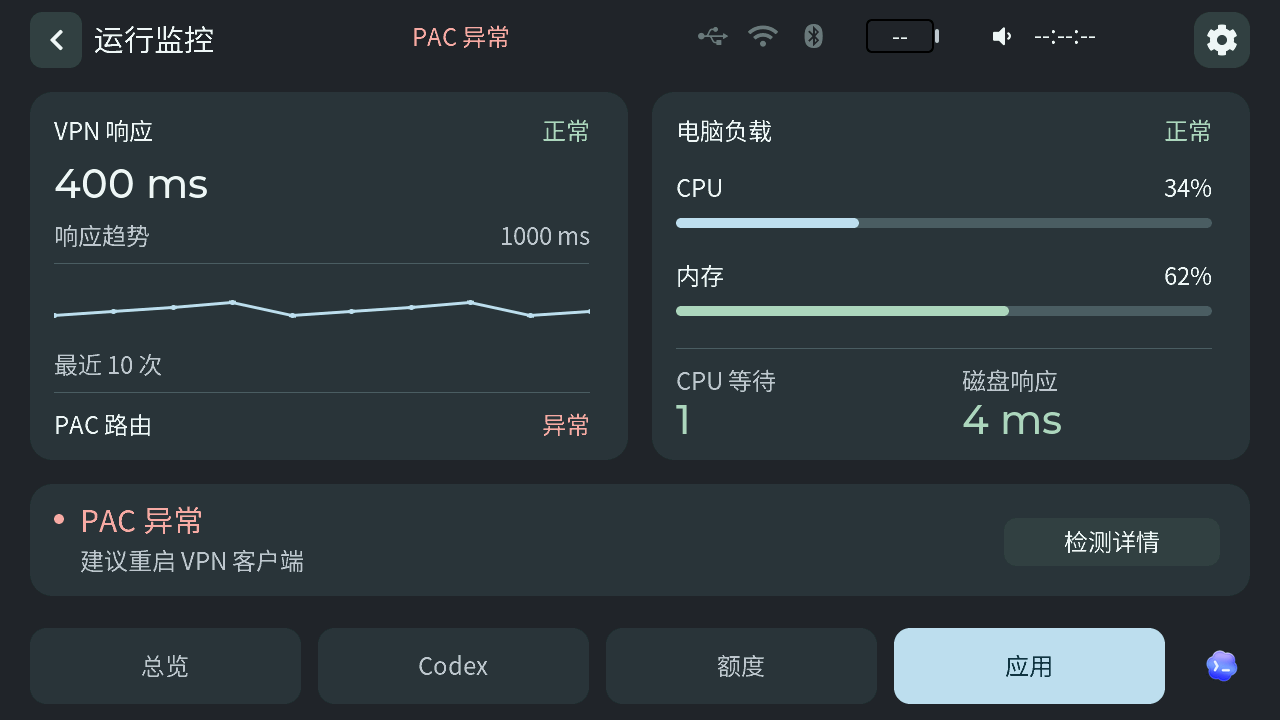
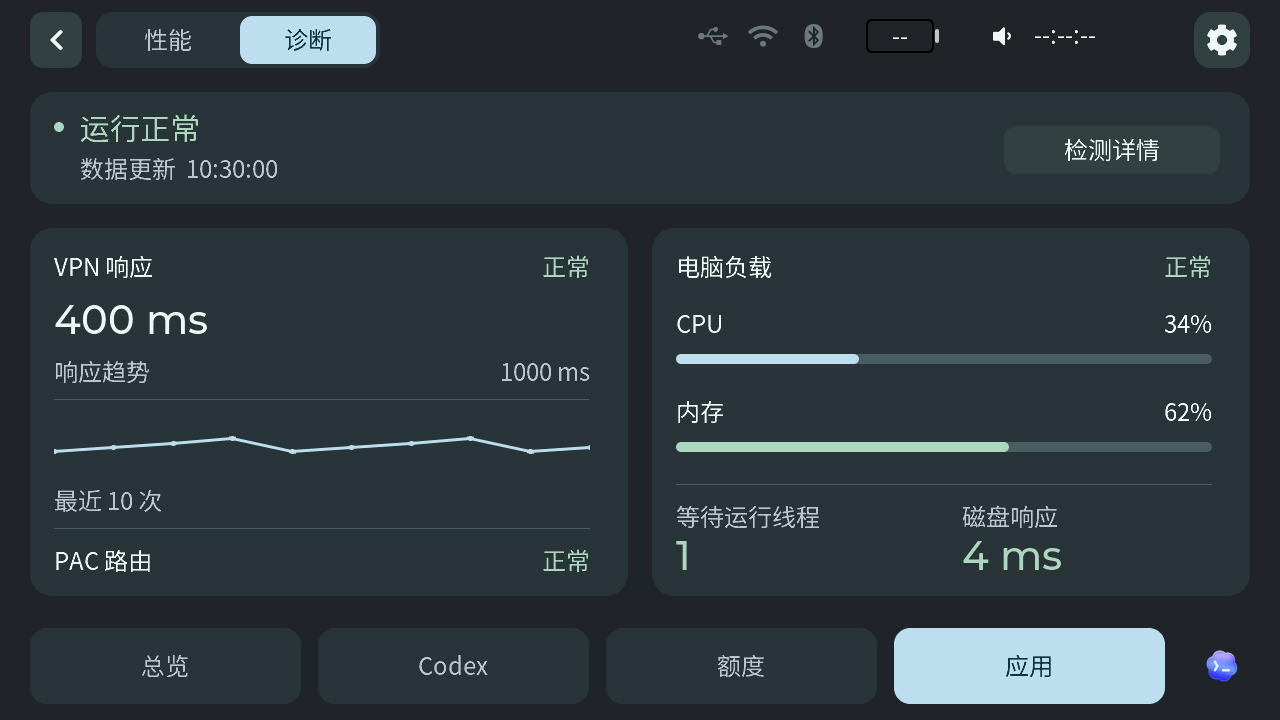
Prepare Windows 0.6.12 and TAB5 0.2.282 releases

diff --git a/scripts/prepare_release_assets.py b/scripts/prepare_release_assets.py
@@ -12,12 +12,18 @@ from artifact_names import COMPONENT_KEYS, UPDATE_ALIASES, name as artifact_name
 ROOT = Path(__file__).resolve().parents[1]
 
 
-def prepare(directory: Path, version: str, commit: str, *, component="bundle", versions=None, tab5_source=None):
+def prepare(directory: Path, version: str, commit: str, *, component="bundle", versions=None, tab5_source=None, desktop_platform="all"):
     if not re.fullmatch(r"[0-9a-f]{40}", commit):
         raise ValueError("Expected full source commit SHA")
     current = versions or {"bridge": version, "esp8266": version, "tab5": version}
     bridge, esp, tab = (current[name] for name in ("bridge", "esp8266", "tab5"))
+    if desktop_platform not in ("all", "windows", "macos") or (desktop_platform != "all" and component != "bridge"):
+        raise ValueError("Unsupported platform for component")
     keys = COMPONENT_KEYS["bridge"] + COMPONENT_KEYS["esp8266"] if component == "bundle" else COMPONENT_KEYS[component]
+    if desktop_platform == "windows":
+        keys = tuple(key for key in keys if key != "macos")
+    elif desktop_platform == "macos":
+        keys = ("macos", "bridge-source")
     archives = [resolve(directory, key, current["bridge" if key in COMPONENT_KEYS["bridge"] else "esp8266" if key == "esp8266" else "tab5"]) for key in keys]
     expected = {name + suffix for name in archives for suffix in ("", ".sha256")}
     if {p.name for p in directory.iterdir()} != expected:
@@ -37,7 +43,8 @@ def prepare(directory: Path, version: str, commit: str, *, component="bundle", v
         "version": version, "component": component, "componentVersions": current, "sourceCommit": commit,
         "packageHashes": {name: hashlib.sha256((directory / name).read_bytes()).hexdigest() for name in archives},
         "tab5Source": source_record,
-        "macOS": "arm64; ad-hoc signed; not notarized; interactive acceptance required" if component in ("bridge", "bundle") else "not included",
+        "macOS": "arm64; ad-hoc signed; not notarized; interactive acceptance required" if component in ("bridge", "bundle") and desktop_platform != "windows" else "not included",
+        "desktopPlatform": desktop_platform,
         "status": "candidate; publication requires separate acceptance"
     }, indent=2) + "\n", encoding="utf-8")
     lines = [f"{hashlib.sha256(p.read_bytes()).hexdigest()}  {p.name}"
@@ -109,12 +116,13 @@ if __name__ == "__main__":
     parser.add_argument("--component", choices=("bundle", "bridge", "esp8266", "tab5"), default="bundle")
     parser.add_argument("--publish-directory", type=Path)
     parser.add_argument("--tab5-source", type=Path, help="Validated local source snapshot; defaults to the versioned repository archive")
+    parser.add_argument("--desktop-platform", choices=("all", "windows", "macos"), default="all")
     args = parser.parse_args()
     current = declared_versions(ROOT)
     version = current["bridge" if args.component == "bundle" else args.component]
     if args.tab5_source and args.component != "tab5":
         parser.error("--tab5-source requires --component tab5")
-    prepare(args.directory, version, args.commit, component=args.component, versions=current, tab5_source=args.tab5_source)
+    prepare(args.directory, version, args.commit, component=args.component, versions=current, tab5_source=args.tab5_source, desktop_platform=args.desktop_platform)
     if args.publish_directory:
         user_payload(args.directory, args.publish_directory, args.component)
     print("RELEASE_ASSETS_OK")

diff --git a/scripts/test_release_packaging.py b/scripts/test_release_packaging.py
@@ -141,5 +141,58 @@ class PackagingTests(unittest.TestCase):
                 self.assertFalse((directory / 'BUILD.json').exists())
 
 
+    def test_windows_only_keeps_default_complete_set_and_rejects_extra_mac(self):
+        import json
+        from prepare_release_assets import user_payload
+        for include_mac in (False, True):
+            with self.subTest(include_mac=include_mac), tempfile.TemporaryDirectory() as temp:
+                directory = Path(temp) / "assets"
+                directory.mkdir()
+                self.seed(directory)
+                for name in ("AI-bot-0.1.0-firmware-materials.zip",):
+                    (directory / name).unlink()
+                    (directory / (name + ".sha256")).unlink()
+                mac = "AIBotBridge-0.1.0-local-candidate-macos-arm64.zip"
+                if not include_mac:
+                    (directory / mac).unlink()
+                    (directory / (mac + ".sha256")).unlink()
+                    with self.assertRaises(ValueError):
+                        prepare(directory, "0.1.0", "a" * 40, component="bridge")
+                    prepare(directory, "0.1.0", "a" * 40, component="bridge", desktop_platform="windows")
+                    self.assertEqual(json.loads((directory / "BUILD.json").read_text())["macOS"], "not included")
+                    public = Path(temp) / "public"
+                    user_payload(directory, public, "bridge")
+                    self.assertTrue((public / "AIBotBridge-0.1.0-setup-win-x64.exe").exists())
+                    self.assertFalse(any("macos" in path.name for path in public.iterdir()))
+                else:
+                    with self.assertRaises(ValueError):
+                        prepare(directory, "0.1.0", "a" * 40, component="bridge", desktop_platform="windows")
+
+    def test_macos_only_requires_mac_and_source_and_rejects_windows(self):
+        import json
+        from prepare_release_assets import user_payload
+        for include_windows in (False, True):
+            with self.subTest(include_windows=include_windows), tempfile.TemporaryDirectory() as temp:
+                directory = Path(temp) / "assets"
+                directory.mkdir()
+                self.seed(directory)
+                for name in ("AI-bot-0.1.0-firmware-materials.zip", "AIBotBridge-0.1.0-local-candidate-win-x64.zip"):
+                    (directory / name).unlink()
+                    (directory / (name + ".sha256")).unlink()
+                windows = "AIBotBridge-0.1.0-setup-win-x64.exe"
+                if include_windows:
+                    with self.assertRaises(ValueError):
+                        prepare(directory, "0.1.0", "a" * 40, component="bridge", desktop_platform="macos")
+                else:
+                    (directory / windows).unlink()
+                    (directory / (windows + ".sha256")).unlink()
+                    prepare(directory, "0.1.0", "a" * 40, component="bridge", desktop_platform="macos")
+                    self.assertNotEqual(json.loads((directory / "BUILD.json").read_text())["macOS"], "not included")
+                    public = Path(temp) / "public"
+                    user_payload(directory, public, "bridge")
+                    self.assertTrue((public / "AI-bot-bridge-v0.1.0-macos-arm64.zip").exists())
+                    self.assertFalse(any("windows" in path.name for path in public.iterdir()))
+
+
 if __name__ == "__main__":
     unittest.main()

diff --git a/scripts/download_catalog.py b/scripts/download_catalog.py
@@ -8,7 +8,7 @@ from pathlib import Path
 import re
 import urllib.request
 
-from component_versions import release_target
+from component_versions import release_target, desktop_platform, versions
 from artifact_names import TEMPLATES, names as artifact_names, match as match_artifact
 
 ROOT = Path(__file__).resolve().parents[1]
@@ -167,6 +167,15 @@ def verify_online(data):
         print(f"OK HD {key}: complete archive size, hash and part count")
 
 
+
+def gallery_display_version(category, package_version, language="zh"):
+    """Show content edition and package identity together when they differ."""
+    edition = gallery_edition(category, package_version)
+    if edition == package_version:
+        return package_version
+    return (f"{edition}（包 {package_version}）" if language == "zh"
+            else f"{edition} (package {package_version})")
+
 def table(data, language="zh", tag=None):
     entries = copy.deepcopy(data["downloads"])
     changed = set()
@@ -177,6 +186,10 @@ def table(data, language="zh", tag=None):
             if kind == component or component == "bundle" and kind in ("bridge", "esp8266"):
                 # A published Windows-only release must not invent a Mac download.
                 if published and entries[key]["tag"] != tag:
+                    continue
+                # Draft notes must not invent a download for an unselected platform.
+                if (not published and component == "bridge" and version == versions(ROOT)["bridge"]
+                        and desktop_platform(ROOT) != "all" and key != desktop_platform(ROOT)):
                     continue
                 target = {"tag": tag, "version": version, "file": template.format(version=version)}
                 if entries[key]["tag"] == tag and entries[key]["version"] == version:
@@ -191,7 +204,7 @@ def table(data, language="zh", tag=None):
     lines = ["| 用途 | 版本 | 下载 | SHA-256 |" if zh else "| Use | Version | Download | SHA-256 |", "| --- | --- | --- | --- |"]
     for key, spec in SPECS.items():
         item = entries[key]
-        version = gallery_edition(key, item["version"]) + ((" · 本次发布" if zh else " · this release") if key in changed else "")
+        version = gallery_display_version(key, item["version"], language) + ((" · 本次发布" if zh else " · this release") if key in changed else "")
         label = "下载" if zh else "Download"
         if "size" in item:
             label += f" · {item['size'] / 1048576:.0f} MiB"
@@ -200,7 +213,7 @@ def table(data, language="zh", tag=None):
             collection = hd["collections"][key]
             title = spec[2].replace("标准版", "高清完整版") if zh else spec[3].replace("standard", "complete HD")
             label = ("下载" if zh else "Download") + f" · {collection['size'] / 1073741824:.2f} GiB"
-            lines.append(f"| {title} | {gallery_edition(key, hd['version'])} | [{label}]({HD_GUIDE}#download) | [SHA-256]({HD_GUIDE}#{key}) |")
+            lines.append(f"| {title} | {gallery_display_version(key, hd['version'], language)} | [{label}]({HD_GUIDE}#download) | [SHA-256]({HD_GUIDE}#{key}) |")
     return "\n".join(lines)
 
 

diff --git a/scripts/test_download_catalog.py b/scripts/test_download_catalog.py
@@ -43,10 +43,11 @@ class DownloadCatalogTests(unittest.TestCase):
             for key in ("painting", "calligraphy"):
                 item = self.data["downloads"][key]
                 index = next(i for i, row in enumerate(rows) if catalog.asset_url(item) in row)
-                self.assertIn("| 2026.1 |", rows[index])
-                self.assertIn("| 2026.1 |", rows[index + 1])
+                self.assertIn("2026.1", rows[index])
+                self.assertIn(item["version"], rows[index])
+                self.assertIn("2026.1", rows[index + 1])
+                self.assertIn("2026.10.16", rows[index + 1])
                 self.assertIn(item["file"], rows[index])
-            self.assertNotIn("| 2026.10.16 |", "\n".join(rows))
         self.assertEqual(before, self.data)
         self.assertEqual(catalog.gallery_edition("painting", "2026.10.18"), "2026.10.18")
         self.assertEqual(catalog.gallery_edition("windows", "0.6.8"), "0.6.8")
@@ -70,6 +71,22 @@ class DownloadCatalogTests(unittest.TestCase):
             self.assertIn(catalog.asset_url(self.data["downloads"]["macos"]), rendered)
             self.assertNotIn("macos-arm64.zip", "\n".join(row for row in rendered.splitlines() if "v99.0.0" in row))
             self.assertEqual(rendered.count("本次发布" if language == "zh" else "this release"), 1)
+
+    def test_gallery_table_exposes_exact_installed_package_versions(self):
+        for language, label in (("zh", "包"), ("en", "package")):
+            table = catalog.table(self.data, language)
+            for version in ("2026.10.14.1", "2026.10.15.1", "2026.10.16"):
+                self.assertIn(f"{label} {version}", table)
+            self.assertEqual(catalog.gallery_display_version("painting", "2099.01.01", language), "2099.01.01")
+
+    def test_desktop_draft_links_only_the_selected_platform(self):
+        version = catalog.versions(catalog.ROOT)["bridge"]
+        for platform, retained in (("windows", "macos"), ("macos", "windows")):
+            with self.subTest(platform=platform), patch.object(catalog, "desktop_platform", return_value=platform):
+                rendered = catalog.table(self.data, tag="v" + version)
+                self.assertIn(catalog.asset_url(self.data["downloads"][retained]), rendered)
+                self.assertIn(catalog.SPECS[platform][1].format(version=version), rendered)
+                self.assertEqual(rendered.count("本次发布"), 1)
 
     def test_mac_only_release_preserves_current_windows_download(self):
         releases = self.releases() + [{"tag_name": "v99.0.0", "published_at": "2027-01-01", "draft": False, "prerelease": False,

diff --git a/windows-app/AIBotBridge/DeviceCenterForm.cs b/windows-app/AIBotBridge/DeviceCenterForm.cs
@@ -128,7 +128,7 @@ internal sealed class DeviceCenterForm : Form
     }
     private void RenderShared() {
         Clear(_accounts);Heading(_accounts,"账号数据",17);
-        var accounts=ActionGrid(_accounts);
+        var accounts=ActionGrid(_accounts,compact:true);
         Card(accounts,"模型账号","登录与授权模型账号",()=>_common("authorize"));
         Card(accounts,"天气定位","城市、定位与天气来源",()=>_common("weather-settings"));
         Card(accounts,"自选股票","管理关注的股票",()=>_common("stocks-settings"));
@@ -222,7 +222,7 @@ internal sealed class DeviceCenterForm : Form
     }
     private void Heading(Control parent,string text,float size=14)=>parent.Controls.Add(new Label{Text=text,AutoSize=true,Font=new Font(Font.FontFamily,size,FontStyle.Bold),Margin=new Padding(0,4,0,10)});
     private static void Note(Control parent,string text)=>parent.Controls.Add(new Label{Text=text,AutoSize=true,ForeColor=Color.DimGray,Margin=new Padding(0,0,0,12)});
-    private static TableLayoutPanel ActionGrid(Control parent) {
+    private static TableLayoutPanel ActionGrid(Control parent,bool compact=false) {
         var grid=new TableLayoutPanel{Name="device-actions",AutoSize=true,ColumnCount=2,Margin=new Padding(0,4,0,0)};
         bool arranging=false;
         void Arrange() {
@@ -233,9 +233,12 @@ internal sealed class DeviceCenterForm : Form
                 int gap=Math.Max(6,grid.Font.Height/3);
                 int minimum=cards.Max(c=>c.PreferredCardWidth)+gap;
                 int columns=cards.Length>=6&&grid.ClientSize.Width>=minimum*3?3:2;
-                grid.ColumnCount=columns;grid.RowCount=(cards.Length+columns-1)/columns;
+                grid.ColumnCount=columns+(compact?1:0);grid.RowCount=(cards.Length+columns-1)/columns;
                 grid.ColumnStyles.Clear();grid.RowStyles.Clear();
-                for(int i=0;i<columns;i++)grid.ColumnStyles.Add(new(SizeType.Percent,100f/columns));
+                int compactWidth=Math.Min(grid.ClientSize.Width/columns,minimum+grid.Font.Height*2);
+                for(int i=0;i<columns;i++)grid.ColumnStyles.Add(compact
+                    ?new(SizeType.Absolute,compactWidth):new(SizeType.Percent,100f/columns));
+                if(compact)grid.ColumnStyles.Add(new(SizeType.Percent,100));
                 for(int i=0;i<grid.RowCount;i++)grid.RowStyles.Add(new(SizeType.AutoSize));
                 for(int i=0;i<cards.Length;i++) {
                     cards[i].Margin=new Padding(i%columns==0?0:gap/2,0,i%columns==columns-1?0:gap-gap/2,gap);

diff --git a/scripts/package_desktop_source.py b/scripts/package_desktop_source.py
@@ -1,0 +1,50 @@
+"""Prepare the verified desktop source archive for a Mac-only release."""
+import argparse
+import hashlib
+from pathlib import Path
+import re
+import shutil
+import subprocess
+import tempfile
+
+import collect_distribution_materials as materials
+from artifact_names import name
+from component_versions import versions
+
+ROOT = Path(__file__).resolve().parents[1]
+EXCLUDED = re.compile(
+    r"^(?:windows-app/AIBotBridge/Assets/DailyArt/|docs/art-guides/|"
+    r"docs/development/(?:CALLIGRAPHY-ORIGINALS|ART-LOOKING-AUDIT|TAB5-CALLIGRAPHY-ORIGINALS)|"
+    r"docs/TAB5-(?:CALLIGRAPHY|PAINTING|CHINESE-ART)-|"
+    r"scripts/(?:prepare_daily_art|verify_daily_art_year)\.py$)"
+)
+
+
+def package(output: Path):
+    output = output.resolve()
+    if output.exists():
+        raise ValueError("Use a new source output directory")
+    subprocess.run(["python", str(ROOT / "scripts/check_public_content.py")], cwd=ROOT, check=True)
+    materials.verify_evidence()
+    files = subprocess.check_output(["git", "ls-files", "-z"], cwd=ROOT).decode("utf-8").split("\0")
+    with tempfile.TemporaryDirectory(prefix="aibot-source-") as temp:
+        stage = Path(temp)
+        lines = []
+        for relative in sorted(p for p in files if p and not EXCLUDED.match(p)):
+            source = ROOT / relative
+            if source.is_symlink() or not source.is_file():
+                raise ValueError(f"Missing or linked source: {relative}")
+            target = stage / relative
+            target.parent.mkdir(parents=True, exist_ok=True)
+            shutil.copyfile(source, target)
+            lines.append(f"{hashlib.sha256(target.read_bytes()).hexdigest()}  {relative}")
+        (stage / "SOURCE_FILES.sha256").write_text("\n".join(lines) + "\n", encoding="utf-8")
+        output.mkdir(parents=True)
+        materials.ROOT = stage
+        materials.archive_source(output / name("bridge-source", versions(ROOT)["bridge"]))
+
+
+if __name__ == "__main__":
+    parser = argparse.ArgumentParser(description=__doc__)
+    parser.add_argument("output", type=Path)
+    package(parser.parse_args().output)

diff --git a/windows-app/AIBotBridge/Tab5ScreenPreviewForm.cs b/windows-app/AIBotBridge/Tab5ScreenPreviewForm.cs
@@ -18,6 +18,7 @@ internal sealed class Tab5ScreenPreviewForm: Form
         _service=service;_valid=valid;Text="设备预览";ClientSize=new(840,540);MinimumSize=new(640,420);
         Controls.Add(_image);Controls.Add(_status);_timer.Tick+=(_,_)=>RefreshFrame();
         Shown+=(_,_)=>{_timer.Start();RefreshFrame();};
+        SettingsWindow.FitScreen(this);
     }
     internal void Restart(){if(!Visible||WindowState==FormWindowState.Minimized)StopPreview();}
     private void ClearImage(){var old=_image.Image;_image.Image=null;old?.Dispose();_shown=long.MinValue;_shownPixels=null;}

diff --git a/scripts/component_versions.py b/scripts/component_versions.py
@@ -14,6 +14,13 @@ def components(root=ROOT):
     return manifest["components"]
 
 
+def desktop_platform(root=ROOT):
+    value = components(root)["bridge"].get("desktopPlatform", "all")
+    if value not in ("all", "windows", "macos"):
+        raise ValueError("Unsupported desktop release platform")
+    return value
+
+
 def versions(root=ROOT):
     result = {}
     for name, record in components(root).items():

diff --git a/scripts/check_public_content.py b/scripts/check_public_content.py
@@ -41,6 +41,7 @@ REVIEWED_DOC_NAMES = frozenset({
     'tab5-classic-night.png',
     'bridge-monitor.png',
     'tab5-runtime-health.png',
+    'tab5-runtime-health-detail.png',
     'tab5-settings-info.png',
     'tab5-clock-geometric.png',
     'tab5-clock-star.png',

diff --git a/docs/RUNTIME-MONITOR.md b/docs/RUNTIME-MONITOR.md
@@ -1,12 +1,12 @@
 # 运行监控 / Runtime monitor
 
-本功能是本地开发候选：Windows 桥接已在本机更新，真实采样、Windows 通知显示回执、正常退出与重启已经验证；TAB5 页面仍为原生 LVGL 预览，尚未刷机。现有固件、版本和升级包保持原有状态。
+Windows 桥接的真实采样、通知显示回执、正常退出与重启已经验证。TAB5 0.2.282-ui 已刷入并完成系统告警、诊断页、检测详情和返回操作的实机确认；文档截图使用隔离演示数据。
 
 ## 页面与提醒
 
 - TAB5：进入`应用 → 系统`默认显示常看的 CPU / 内存、整机上传／下载速率和流量曲线；「运行监控」入口位于系统页标题旁，与流量图分开。点击该入口或首页短异常提示才进入监控页。左上角箭头依次返回：检测详情 → 运行监控 → 电脑状态 → 来源页面。退出后再次进入系统仍显示电脑状态。
-- 运行监控按两类组织：左侧 VPN 响应数字、最近 10 次趋势、PAC 状态；右侧 CPU / 内存条、CPU 等待队列、磁盘响应。底部专门显示当前异常及简短建议。
-- 点 VPN / 电脑卡片查看相应检测结果；「检测详情」打开当前异常对应的网络或系统分组。详情分为「异常原因」「处理建议」两栏，只保留关键证据与最多三条简短建议；正常、未确认、关闭及断连分别提示，不显示重复状态、HTTP 明细或完整日志。原始诊断继续保留在电脑桥接详情中。本功能不展示 Codex 用量、任务计数或会话详情，原有其他页面保持原功能。
+- 运行监控顶部显示当前状态与「检测详情」入口；左侧显示 VPN 响应、最近 10 次趋势和 PAC 状态，右侧显示 CPU / 内存、等待运行线程与磁盘响应。
+- 点 VPN / 电脑卡片查看相应检测结果；「检测详情」打开当前异常对应的网络或系统分组。详情突出异常原因，并分区显示检测数据和处理建议；正常、未确认、关闭及断连分别提示。原始诊断继续保留在电脑桥接详情中。本功能不展示 Codex 用量、任务计数或会话详情。
 - 首页没有正常状态说明或诊断长文；异常时使用「系统监控：内存紧张」「系统监控：系统繁忙」等短标题，前置原生感叹号警告图标：一般告警为黄色，严重错误为红色。Windows 通知使用相同前缀及对应的系统警告／错误图标，具体外观由 Windows 控制。点击进入运行监控。一次异常只响一次，恢复后自动清除；新的持续异常可再次提醒。任务完成、等待审批等原有短时提示保留优先级。
 - 监控数据过期或桥接断开时显示中断，取消绿色状态与趋势。不能用旧状态表示正常。
 - Windows：`设备中心 → 桥接设置 → 运行监控` 主窗口只显示 VPN / PAC 和电脑负载两组简短状态、数字及异常建议；完整说明在「网络详情」「电脑详情」中查看。检测设置为独立标签页，可配置间隔、阈值、预期代理路径和小流量测速；提醒管理提供运行异常开关、提醒音及勿扰时段。
@@ -17,7 +17,7 @@
 - Codex 实际连接：复用桥接已有的认证用量请求结果以及新模型事件中的固定错误类型，不增加模型请求或额外额度查询。单个来源的连接／超时异常在 5 分钟内达到三次才提醒，登录失效或访问受限连续两次才提醒；两次实际成功确认恢复。认证查询成功不覆盖模型连接失败。用户取消、等待审批、长时间无输出均不按连接故障处理；没有五分钟内的实际结果时显示待确认，不能用 VPN 探测成功证明业务正常。只保留分类、计数和时间，丢弃事件正文、会话标识及凭据。
 - 桥接守护：桥接启动时创建一个同用户、会话内的独立子进程，正常退出时通知其结束；不安装 Windows 服务／计划任务、不自动重启。每两秒检查界面心跳、监控采样时间和服务任务失败。启动及睡眠恢复预留 20 秒；界面超过 15 秒、采样超过 10 秒或服务已失败，再持续 30 秒才提醒。整个桥接异常退出单独提醒。正常退出、停用监控、短暂停顿不会提示异常，提醒开关／勿扰设置继续生效；同一异常不由父子进程重复通知。
 - 内存压力：`GetPerformanceInfo` 读取实际提交量和当前提交上限，比例达到原内存阈值（默认 90%）持续 30 秒后提醒。换页读入 ≥1000 页/秒必须同时满足可用内存 <1024 MB 或提交比例 ≥85%，以及磁盘响应 ≥20 ms，持续 30 秒后提醒；单独文件映射读取不触发换页告警。提交上限可能随分页文件扩展而改变；此比例不等于物理内存占用。
-- 新提醒只进入已有短提示和检测详情。桥接异常退出后无法再向 TAB5 发布新状态，设备端继续按心跳过期显示中断；独立守护在电脑上发提醒。TAB5 新页面仍不刷机。
+- 新提醒只进入已有短提示和检测详情。桥接异常退出后无法再向 TAB5 发布新状态，设备端继续按心跳过期显示中断；独立守护在电脑上发提醒。
 
 ## 采样与判断
 
@@ -68,7 +68,7 @@ A session-scoped same-user child checks UI/collector heartbeats and failed worke
 
 This is a local development candidate. The Windows bridge has been installed locally and verified with 150 seconds of live sampling, a controlled threshold-based alarm, a native Windows notification display receipt, graceful shutdown/restart and restored USB connectivity. Temporary thresholds have been restored and TAB5 remains unflashed. Windows collects scheduler, memory and disk pressure every two seconds and checks the proxy exit and per-target PAC routing every 30 seconds. Sustained system pressure requires 30 seconds; network failures require three consecutive rounds. Two healthy observations clear an alert. A bounded 128 KiB transfer every five minutes measures small-transfer throughput rather than maximum bandwidth.
 
-System opens the frequently viewed computer statistics, upload/download rates and traffic graph by default. Runtime monitoring is a secondary entry beside the System page title and continues detecting anomalies in the background. The top-left arrow returns through diagnostic details, monitor overview, computer statistics and the source page. TAB5 keeps short exception notices on Home and places a graphical overview under `Apps → System → Runtime monitor`: latency history and PAC on the left, CPU/memory bars and scheduler/disk values on the right. The bottom region is dedicated to alerts and advice. The relevant card opens a two-column cause-and-action view, retaining only key evidence and at most three brief suggestions. Healthy, unconfirmed, disabled and interrupted observations remain distinct; full diagnostic text is available on the Windows bridge. Codex usage, task counts and conversation details are excluded from this monitor. Stale data loses its healthy presentation. Windows notification preferences, deduplication and quiet hours apply.
+System opens computer statistics and traffic by default. Runtime monitoring remains accessible beside the System page title. The top-left arrow returns through diagnostic details, monitor overview, computer statistics and the source page. The monitor shows status and a details entry above VPN latency and PAC on the left and CPU, memory, scheduler and disk values on the right. Details highlight the cause, measured data and advice. Full diagnostic text is available on the Windows bridge; stale data loses its healthy presentation. TAB5 0.2.282-ui has been installed and its alert, diagnostics, details and navigation confirmed on the device. Screenshots use isolated demonstration data.
 
 PAC availability, actual Windows per-target selection and explicit exit probes are separate evidence. A working exit with broken PAC suggests restarting the VPN client; slow exits suggest inspecting or changing the node. No automatic proxy changes, node switching, client restarts, credential export or model requests occur. HTTP reachability cannot prove authenticated Codex service health. Native notification delivery is verified; physical acceptance of the new TAB5 pages and audible notification verification remain pending. Network failure branches were controlled tests; the live VPN configuration was not disrupted.
 

diff --git a/README.en.md b/README.en.md
@@ -125,10 +125,10 @@ Configure up to four app/folder launchers in Windows Device Center → TAB5 → 
 | ESP8266 display · first install / upgrade | 0.5.7 | [Download · 30 MiB](https://github.com/yaoyouzhong/AI-bot/releases/download/esp8266-v0.5.7/AI-bot-esp8266-0.5.7-firmware.zip) | [SHA-256](https://github.com/yaoyouzhong/AI-bot/releases/download/esp8266-v0.5.7/SHA256SUMS.txt) |
 | TAB5 · first install from factory system | 0.2.281-ui | [Download · 5 MiB](https://github.com/yaoyouzhong/AI-bot/releases/download/tab5-v0.2.281-ui/AI-bot-tab5-0.2.281-ui-first-install.zip) | [SHA-256](https://github.com/yaoyouzhong/AI-bot/releases/download/tab5-v0.2.281-ui/SHA256SUMS.txt) |
 | TAB5 · upgrade existing AI-bot | 0.2.281-ui | [Download · 5 MiB](https://github.com/yaoyouzhong/AI-bot/releases/download/tab5-v0.2.281-ui/AI-bot-tab5-0.2.281-ui-upgrade.zip) | [SHA-256](https://github.com/yaoyouzhong/AI-bot/releases/download/tab5-v0.2.281-ui/SHA256SUMS.txt) |
-| Daily Calligraphy · standard | 2026.1 | [Download · 869 MiB](https://github.com/yaoyouzhong/AI-bot/releases/download/tab5-v0.2.205-ui/AI-bot-DailyCalligraphy-Curated-2026.10.15.1.zip) | [SHA-256](https://github.com/yaoyouzhong/AI-bot/releases/download/tab5-v0.2.205-ui/SHA256SUMS.txt) |
-| Daily Calligraphy · complete HD | 2026.1 | [Download · 2.89 GiB](https://github.com/yaoyouzhong/AI-bot/blob/main/docs/GALLERY-HD.md#download) | [SHA-256](https://github.com/yaoyouzhong/AI-bot/blob/main/docs/GALLERY-HD.md#calligraphy) |
-| Daily Painting · standard | 2026.1 | [Download · 191 MiB](https://github.com/yaoyouzhong/AI-bot/releases/download/tab5-v0.2.194-ui/AI-bot-DailyPainting-Curated-2026.10.14.1.zip) | [SHA-256](https://github.com/yaoyouzhong/AI-bot/releases/download/tab5-v0.2.194-ui/SHA256SUMS.txt) |
-| Daily Painting · complete HD | 2026.1 | [Download · 1.86 GiB](https://github.com/yaoyouzhong/AI-bot/blob/main/docs/GALLERY-HD.md#download) | [SHA-256](https://github.com/yaoyouzhong/AI-bot/blob/main/docs/GALLERY-HD.md#painting) |
+| Daily Calligraphy · standard | 2026.1 (package 2026.10.15.1) | [Download · 869 MiB](https://github.com/yaoyouzhong/AI-bot/releases/download/tab5-v0.2.205-ui/AI-bot-DailyCalligraphy-Curated-2026.10.15.1.zip) | [SHA-256](https://github.com/yaoyouzhong/AI-bot/releases/download/tab5-v0.2.205-ui/SHA256SUMS.txt) |
+| Daily Calligraphy · complete HD | 2026.1 (package 2026.10.16) | [Download · 2.89 GiB](https://github.com/yaoyouzhong/AI-bot/blob/main/docs/GALLERY-HD.md#download) | [SHA-256](https://github.com/yaoyouzhong/AI-bot/blob/main/docs/GALLERY-HD.md#calligraphy) |
+| Daily Painting · standard | 2026.1 (package 2026.10.14.1) | [Download · 191 MiB](https://github.com/yaoyouzhong/AI-bot/releases/download/tab5-v0.2.194-ui/AI-bot-DailyPainting-Curated-2026.10.14.1.zip) | [SHA-256](https://github.com/yaoyouzhong/AI-bot/releases/download/tab5-v0.2.194-ui/SHA256SUMS.txt) |
+| Daily Painting · complete HD | 2026.1 (package 2026.10.16) | [Download · 1.86 GiB](https://github.com/yaoyouzhong/AI-bot/blob/main/docs/GALLERY-HD.md#download) | [SHA-256](https://github.com/yaoyouzhong/AI-bot/blob/main/docs/GALLERY-HD.md#painting) |
 
 Install the computer bridge, then choose firmware for your device. Artwork collections are optional. Components update independently; reinstalling an unchanged version is unnecessary.
 

diff --git a/DOWNLOADS.en.md b/DOWNLOADS.en.md
@@ -12,10 +12,10 @@ All current stable apps, both device firmware packages and optional artwork coll
 | ESP8266 display · first install / upgrade | 0.5.7 | [Download · 30 MiB](https://github.com/yaoyouzhong/AI-bot/releases/download/esp8266-v0.5.7/AI-bot-esp8266-0.5.7-firmware.zip) | [SHA-256](https://github.com/yaoyouzhong/AI-bot/releases/download/esp8266-v0.5.7/SHA256SUMS.txt) |
 | TAB5 · first install from factory system | 0.2.281-ui | [Download · 5 MiB](https://github.com/yaoyouzhong/AI-bot/releases/download/tab5-v0.2.281-ui/AI-bot-tab5-0.2.281-ui-first-install.zip) | [SHA-256](https://github.com/yaoyouzhong/AI-bot/releases/download/tab5-v0.2.281-ui/SHA256SUMS.txt) |
 | TAB5 · upgrade existing AI-bot | 0.2.281-ui | [Download · 5 MiB](https://github.com/yaoyouzhong/AI-bot/releases/download/tab5-v0.2.281-ui/AI-bot-tab5-0.2.281-ui-upgrade.zip) | [SHA-256](https://github.com/yaoyouzhong/AI-bot/releases/download/tab5-v0.2.281-ui/SHA256SUMS.txt) |
-| Daily Calligraphy · standard | 2026.1 | [Download · 869 MiB](https://github.com/yaoyouzhong/AI-bot/releases/download/tab5-v0.2.205-ui/AI-bot-DailyCalligraphy-Curated-2026.10.15.1.zip) | [SHA-256](https://github.com/yaoyouzhong/AI-bot/releases/download/tab5-v0.2.205-ui/SHA256SUMS.txt) |
-| Daily Calligraphy · complete HD | 2026.1 | [Download · 2.89 GiB](https://github.com/yaoyouzhong/AI-bot/blob/main/docs/GALLERY-HD.md#download) | [SHA-256](https://github.com/yaoyouzhong/AI-bot/blob/main/docs/GALLERY-HD.md#calligraphy) |
-| Daily Painting · standard | 2026.1 | [Download · 191 MiB](https://github.com/yaoyouzhong/AI-bot/releases/download/tab5-v0.2.194-ui/AI-bot-DailyPainting-Curated-2026.10.14.1.zip) | [SHA-256](https://github.com/yaoyouzhong/AI-bot/releases/download/tab5-v0.2.194-ui/SHA256SUMS.txt) |
-| Daily Painting · complete HD | 2026.1 | [Download · 1.86 GiB](https://github.com/yaoyouzhong/AI-bot/blob/main/docs/GALLERY-HD.md#download) | [SHA-256](https://github.com/yaoyouzhong/AI-bot/blob/main/docs/GALLERY-HD.md#painting) |
+| Daily Calligraphy · standard | 2026.1 (package 2026.10.15.1) | [Download · 869 MiB](https://github.com/yaoyouzhong/AI-bot/releases/download/tab5-v0.2.205-ui/AI-bot-DailyCalligraphy-Curated-2026.10.15.1.zip) | [SHA-256](https://github.com/yaoyouzhong/AI-bot/releases/download/tab5-v0.2.205-ui/SHA256SUMS.txt) |
+| Daily Calligraphy · complete HD | 2026.1 (package 2026.10.16) | [Download · 2.89 GiB](https://github.com/yaoyouzhong/AI-bot/blob/main/docs/GALLERY-HD.md#download) | [SHA-256](https://github.com/yaoyouzhong/AI-bot/blob/main/docs/GALLERY-HD.md#calligraphy) |
+| Daily Painting · standard | 2026.1 (package 2026.10.14.1) | [Download · 191 MiB](https://github.com/yaoyouzhong/AI-bot/releases/download/tab5-v0.2.194-ui/AI-bot-DailyPainting-Curated-2026.10.14.1.zip) | [SHA-256](https://github.com/yaoyouzhong/AI-bot/releases/download/tab5-v0.2.194-ui/SHA256SUMS.txt) |
+| Daily Painting · complete HD | 2026.1 (package 2026.10.16) | [Download · 1.86 GiB](https://github.com/yaoyouzhong/AI-bot/blob/main/docs/GALLERY-HD.md#download) | [SHA-256](https://github.com/yaoyouzhong/AI-bot/blob/main/docs/GALLERY-HD.md#painting) |
 
 Install the computer bridge, then choose firmware for your device. Artwork collections are optional. Components update independently; reinstalling an unchanged version is unnecessary.
 
